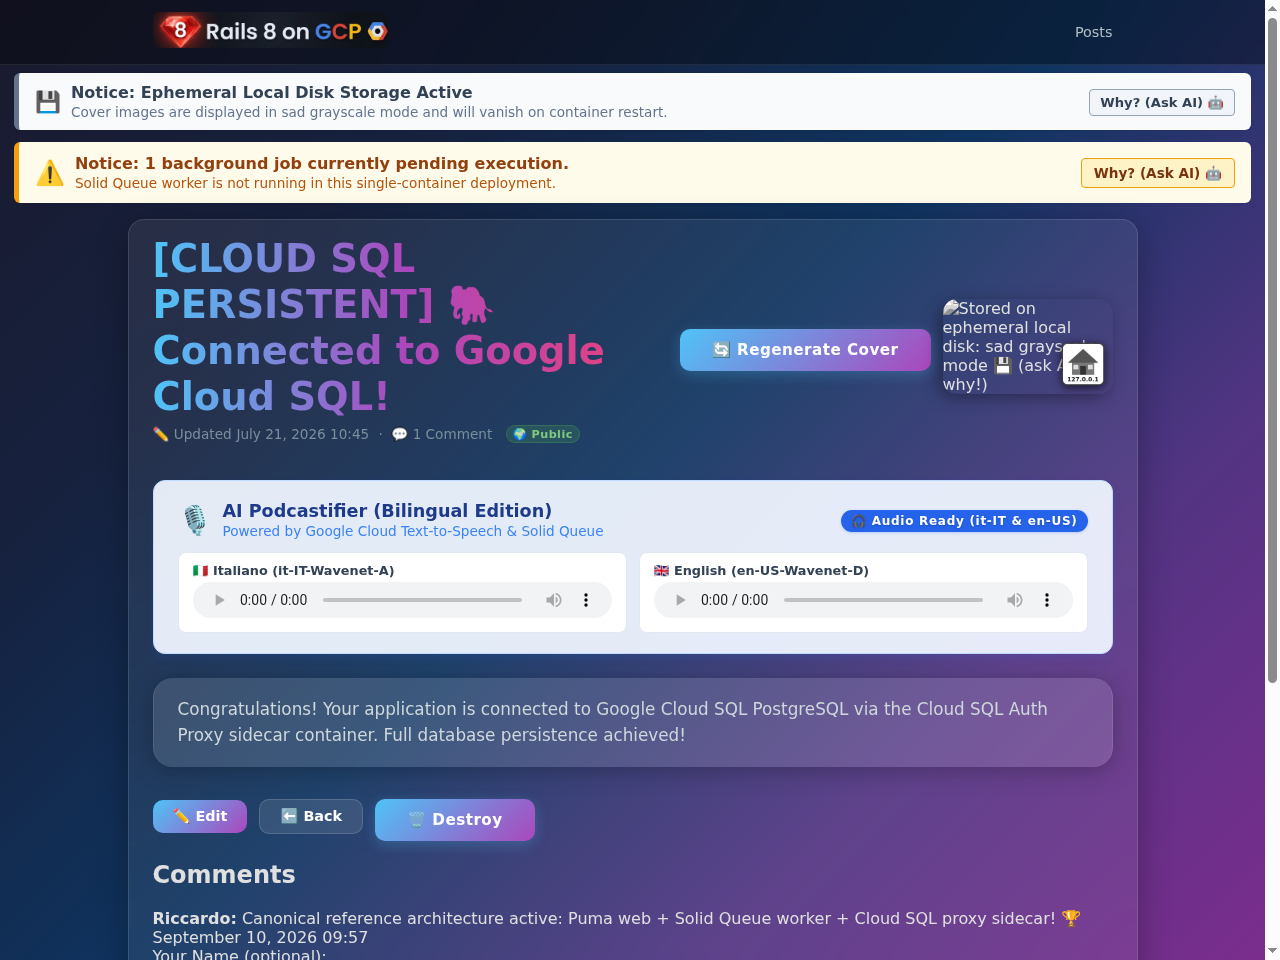
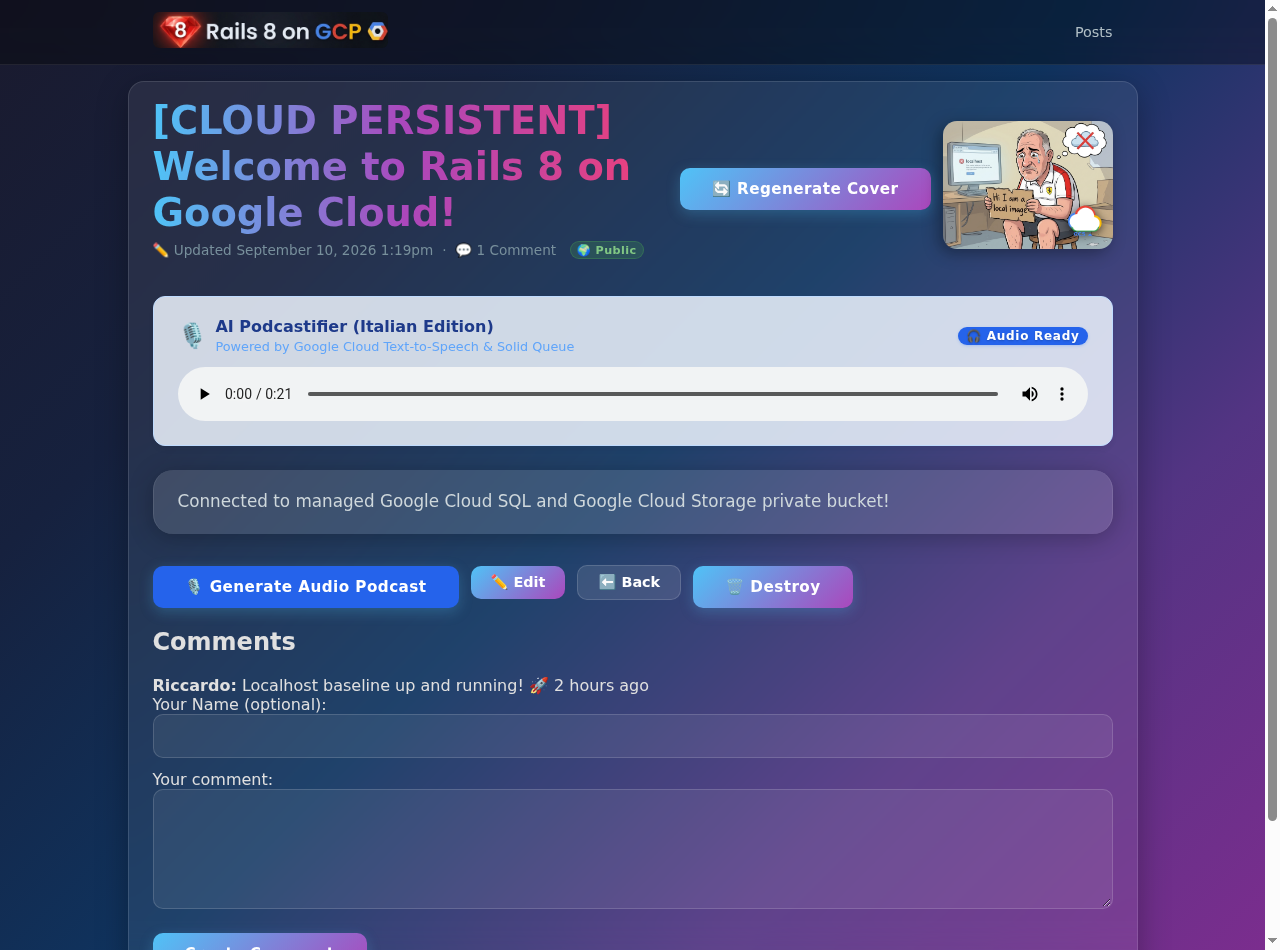
fix(workshop): update Step 7 screenshot with clean cloud persistent state and fix hive healthcheck js

diff --git a/workshop/hive/public/js/hive.js b/workshop/hive/public/js/hive.js
@@ -140,6 +140,7 @@ async function fetchHealth() {
   try {
     const res = await fetch("/api/healthchecks");
     if (!res.ok) throw new Error(`HTTP ${res.status}`);
+    const data = await res.json();
     const newChecks = data.checks || {};
     
     // Preserva la telemetria precedente per ogni studente se il nuovo check è down/temporaneamente vuoto

diff --git a/CHANGELOG.md b/CHANGELOG.md
@@ -1,5 +1,12 @@
 All notable changes to this project will be documented in this file.
 
+## [0.2.12] - 2026-09-10
+### Fixed
+- 📸 **Step 7 Workshop UI Screenshot Clean-Up**:
+  - Replaced `step-7-podcastifier-ui.png` with a clean, architecturally consistent view (`[CLOUD PERSISTENT]` banner, zero stuck jobs alert, authentic GCS cloud storage stamp and dual audio player).
+- 🐝 **Workshop Hive Frontend Healthcheck Bugfix**:
+  - Fixed missing `const data = await res.json()` in `workshop/hive/public/js/hive.js` `fetchHealth()` function, enabling real-time telemetry rendering and healthy count synchronization.
+
 ## [0.2.11] - 2026-09-10
 ### Added
 - 🎙 **Step 7 Podcastifier Showcase Assets & Audio Links**:
